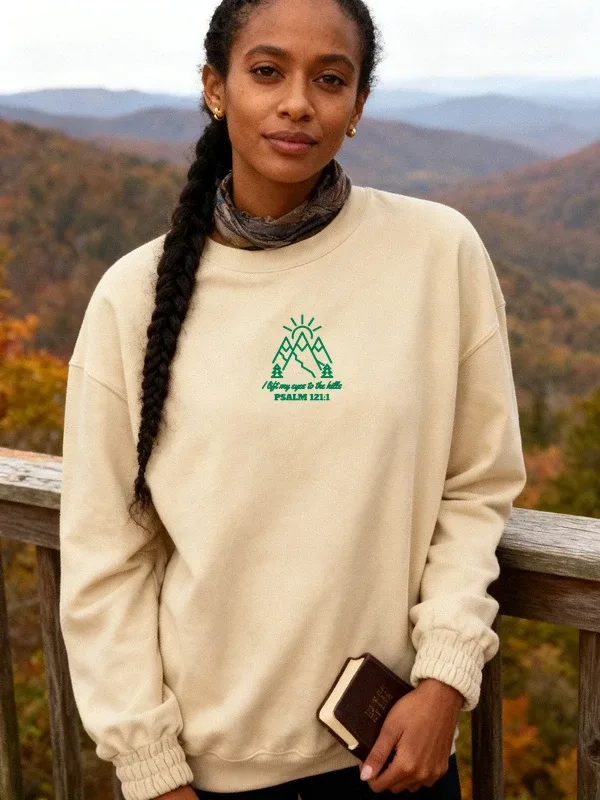
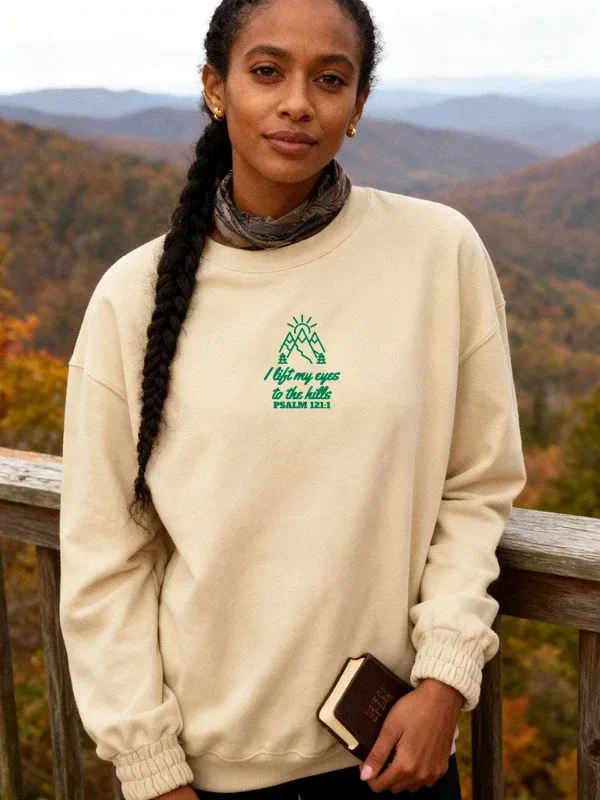
[B] review 498 Psalm 121 REDO: two-line verse

Changed region(s): [[0.42, 0.375, 0.57, 0.5312]]

diff --git a/docs/pipeline/498-embroidered-crew-psalm-121-mountain.md b/docs/pipeline/498-embroidered-crew-psalm-121-mountain.md
@@ -1,4 +1,4 @@
-status: BUILDING [B] 2026-10-18 01:10Z
+status: REVIEW
 lane: B
 type: new
 id: 498
@@ -33,3 +33,4 @@ kd: 50
 - 2026-10-18 00:29 UTC director: REDO (stays DRAFT; art, verse choice, thread color, Sand + Sport Grey, copy and cover pass).
   1. R4.8 (thread limits) / R5.3.5: "I lift my eyes to the hills" runs on one script line across 3.3 in, so the lowercase letters are only about 0.12 in tall. That is under the 0.25 in minimum we set for stitched text after the pilot, and on the mockup it already reads as a green smudge. Re-set it in emb-prep on two lines, "I lift my eyes" / "to the hills", same Yellowtail and the same thickening, so the x-height roughly doubles. Shrink the mountain a little to stay within 4 x 4 in if needed. Keep PSALM 121:1 as it is.
   2. New embroidery file, pf-emb-sync for all 12 variants, new Sand + Sport Grey + back mockups. Cover: composite the new stitch from the Sand mockup onto her chest (R6.9, no fal); the Bible stays at her hip. Then REVIEW.
+- 2026-10-18 01:30 UTC builder [B]: REDO done. The verse is now on two lines, "I lift my eyes" / "to the hills", same Yellowtail with the same thickening, set at 215 px (was 128) so the x-height roughly doubles; the mountain was shrunk to 600 px wide inside the 4 in square; PSALM 121:1 unchanged. New file 3.17 x 3.90 in (p10 stroke 1.66 mm), same thread #01784E; Printful file 1088608171, pf-emb-sync 12/12, new Sand + Sport Grey + back mockups swapped in place (fileUpdate keeps variant links and alts). Cover: composite of the new stitch onto her chest from the existing photo (no fal), Bible untouched at her hip. Review sheet rebuilt, astro build OK. fal $0.

diff --git a/docs/intake-log.md b/docs/intake-log.md
@@ -1,3 +1,4 @@
+2026-10-18 01:16 UTC — [B] REVIEW #498 Psalm 121 embroidered crewneck REDO (verse on two lines, 12/12, composite cover; fal $0).
 2026-10-18 01:10 UTC — [B] REVIEW #512 Golden Retriever I Brought You a Sock crewneck REDO (two-line joke, FW 1500, 12/12, composite cover; fal $0).
 2026-10-18 01:02 UTC — [B] REVIEW #384 Women's Y2K – Hot Mess Express Oversized Sweatshirt (cover added; fal $0.12).
 2026-10-18 00:59 UTC — [B] REVIEW #380 Women's Football Mom – Down, Set, Snacks Crewneck (DRAFT, synced 12/12, Sand + Sport Grey; fal $0.06).
